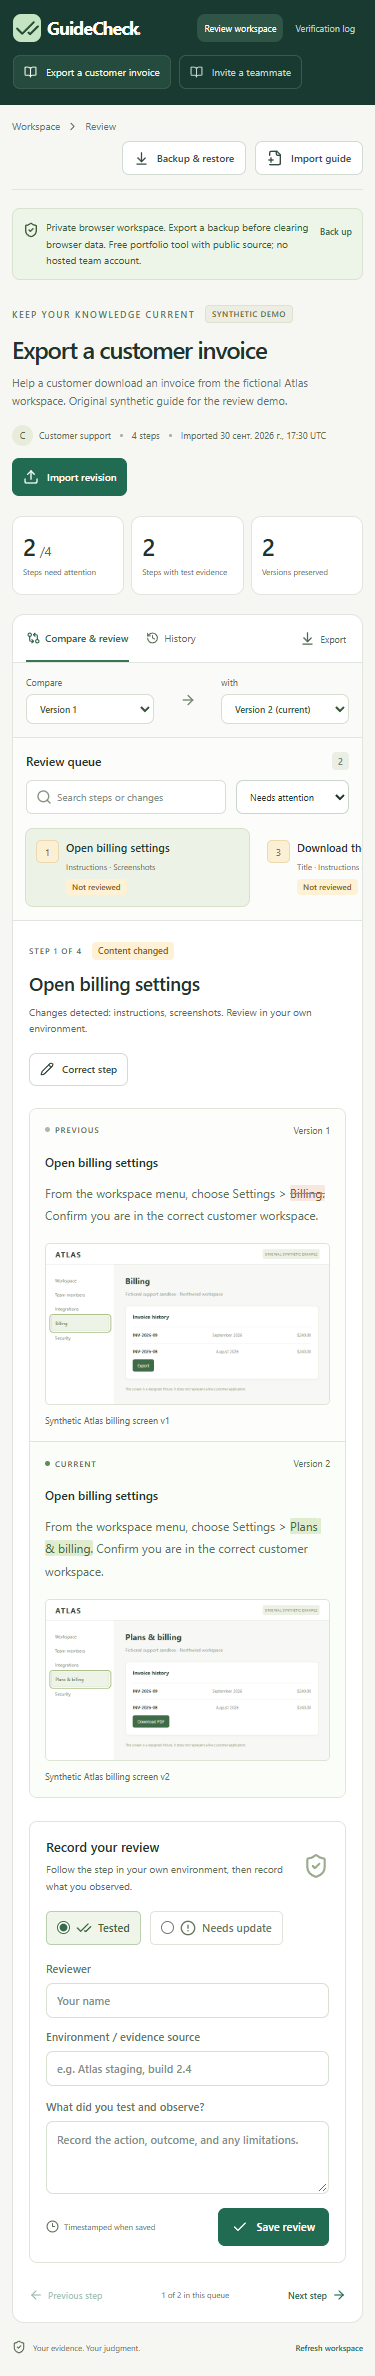
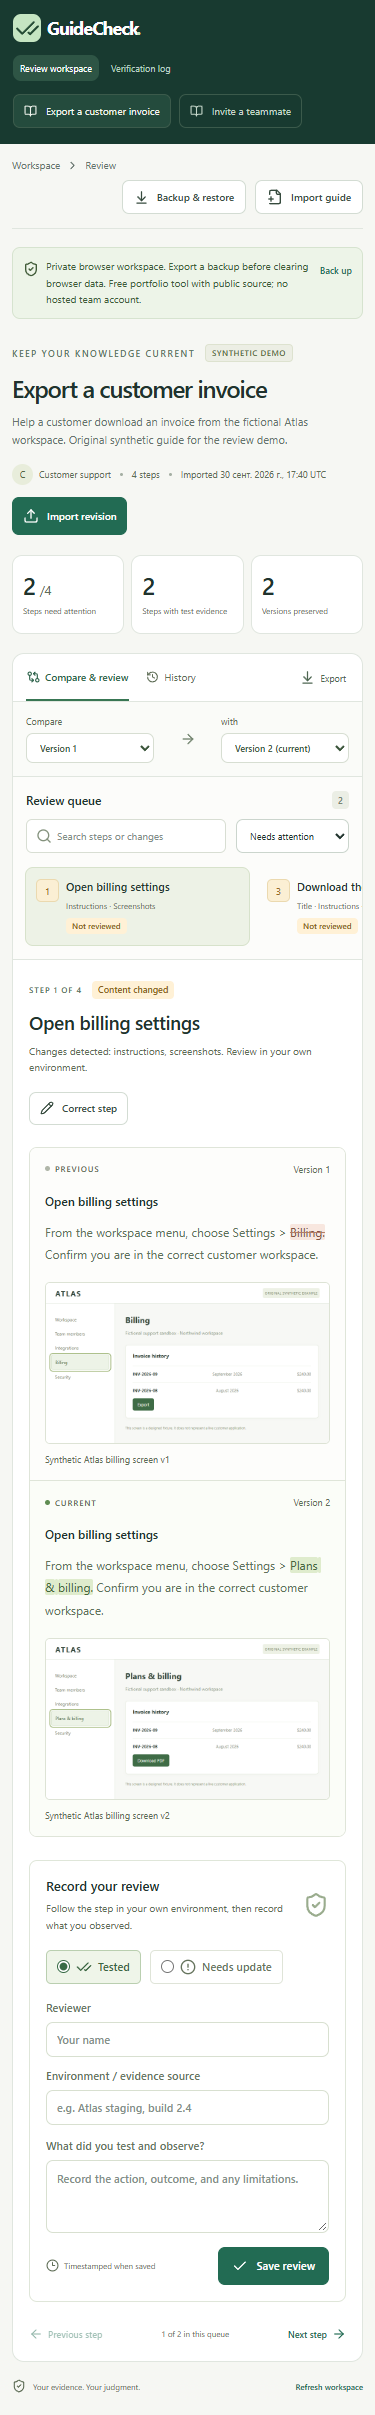
Wrap mobile navigation across system font metrics

diff --git a/tests/browser/workspace.spec.ts b/tests/browser/workspace.spec.ts
@@ -159,11 +159,20 @@ test("400px and 1440px views stay within viewport; screenshot and hostile import
   await page.getByLabel("Filter steps").selectOption("all");
   for (const width of [400, 768, 1024, 1440]) {
     await page.setViewportSize({ width, height: 960 });
-    expect(
-      await page.evaluate(
-        () => document.documentElement.scrollWidth <= window.innerWidth,
-      ),
-    ).toBe(true);
+    const layout = await page.evaluate(() => ({
+      width: innerWidth,
+      scrollWidth: document.documentElement.scrollWidth,
+      overflow: Array.from(document.querySelectorAll("body *"))
+        .filter((el) => {
+          const rect = el.getBoundingClientRect();
+          return rect.width > 0 && rect.right > innerWidth + 1;
+        })
+        .slice(0, 12)
+        .map((el) => ({ tag: el.tagName, class: el.className })),
+    }));
+    expect(layout.scrollWidth, JSON.stringify(layout)).toBeLessThanOrEqual(
+      width,
+    );
   }
   await page.getByRole("button", { name: "Import guide", exact: true }).click();
   await page.getByLabel("Format", { exact: true }).selectOption("json");

diff --git a/tests/public-browser/release.spec.ts b/tests/public-browser/release.spec.ts
@@ -198,7 +198,7 @@ test("public responsive/keyboard/storage failure and malformed backup states", a
   page,
 }) => {
   await page.goto("./");
-  for (const width of [375, 768, 1440]) {
+  for (const width of [375, 400, 768, 1024, 1440]) {
     await page.setViewportSize({ width, height: 950 });
     expect(
       await page.evaluate(

diff --git a/src/styles.css b/src/styles.css
@@ -1941,6 +1941,14 @@ dialog details summary {
     font-size: 9px;
   }
 }
+@media (max-width: 520px) {
+  .sidebar {
+    grid-template-columns: minmax(0, 1fr);
+  }
+  .sidebar nav {
+    flex-wrap: wrap;
+  }
+}
 @media (max-width: 390px) {
   .sidebar {
     padding: 14px 13px;
